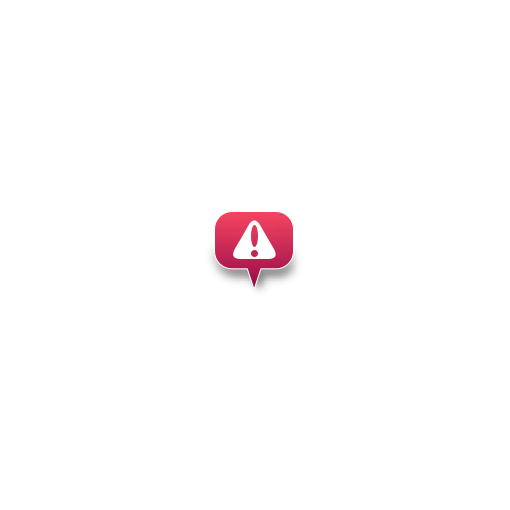
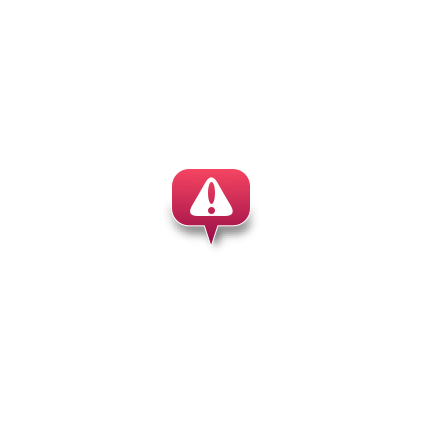
Added validation of max size of uploaded image

Changed region(s): [[0.3976, 0.3976, 0.6118, 0.5812]]

diff --git a/front-end/src/components/map/index.html b/front-end/src/components/map/index.html
@@ -19,7 +19,7 @@
                 <md-input name="title" id="title" :disabled="sending"  v-model.trim="form.title"/>
                 <span class="md-error" v-if="!$v.form.title.required">Title is required</span>
                 <span class="md-error" v-else-if="!$v.form.title.minLength">Title must be at least 4 characters length</span>
-                <span class="md-error" v-else-if="!$v.form.title.maxLength">Title can't be longer than 32 characters</span>
+                <span class="md-error" v-else-if="!$v.form.title.maxLength">Title cannot be longer than 32 characters</span>
               </md-field>
 
               <md-field :class="getValidationClass('desc')">
@@ -27,7 +27,7 @@
                 <md-textarea id="desc" v-model.trim="form.desc"></md-textarea>
                 <span class="md-error" v-if="!$v.form.desc.required">Description is required</span>
                 <span class="md-error" v-if="!$v.form.desc.minLength">Description must be at least 8 characters length</span>
-                <span class="md-error" v-if="!$v.form.desc.maxLength">Description can't be longer than 2048 characters</span>
+                <span class="md-error" v-if="!$v.form.desc.maxLength">Description cannot be longer than 2048 characters</span>
               </md-field>
 
               <md-field :class="getValidationClass('type')">

diff --git a/front-end/src/components/map/main.js b/front-end/src/components/map/main.js
@@ -16,7 +16,7 @@ export default {
     marker: null,
     isPlaced: false,
     sending: false,
-    showSnackBar: false
+    showSnackBar: false,
   }),
   validations: {
     form: {
@@ -52,7 +52,13 @@ export default {
     validateData () {
       this.$v.$touch();
       if (!this.$v.$invalid) {
-        this.saveIssue()
+        var fileSize = document.getElementById("uploadImage").files[0].size;
+        if(fileSize > 1024 * 1024 * 5) // 5 MB
+        {
+          window.alert('Image size cannot be bigger then 5 MB');
+        } else {
+          this.saveIssue();
+        }
       }
     },
 
@@ -301,8 +307,9 @@ export default {
       }
       var icon = {
         url: url,
-        scaledSize: new google.maps.Size(260, 260),
-        anchor: new google.maps.Point(130, 150)
+        scaledSize: new google.maps.Size(200, 200),
+        anchor: new google.maps.Point(100, 120)
+
       };
       marker.setIcon(icon);
     },
